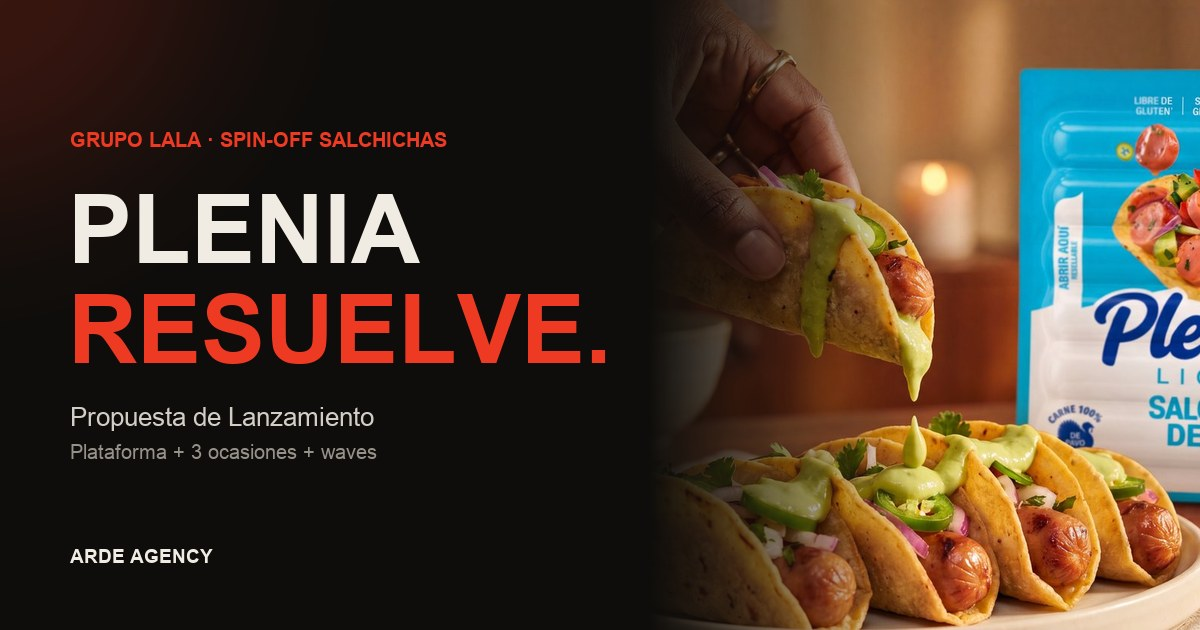
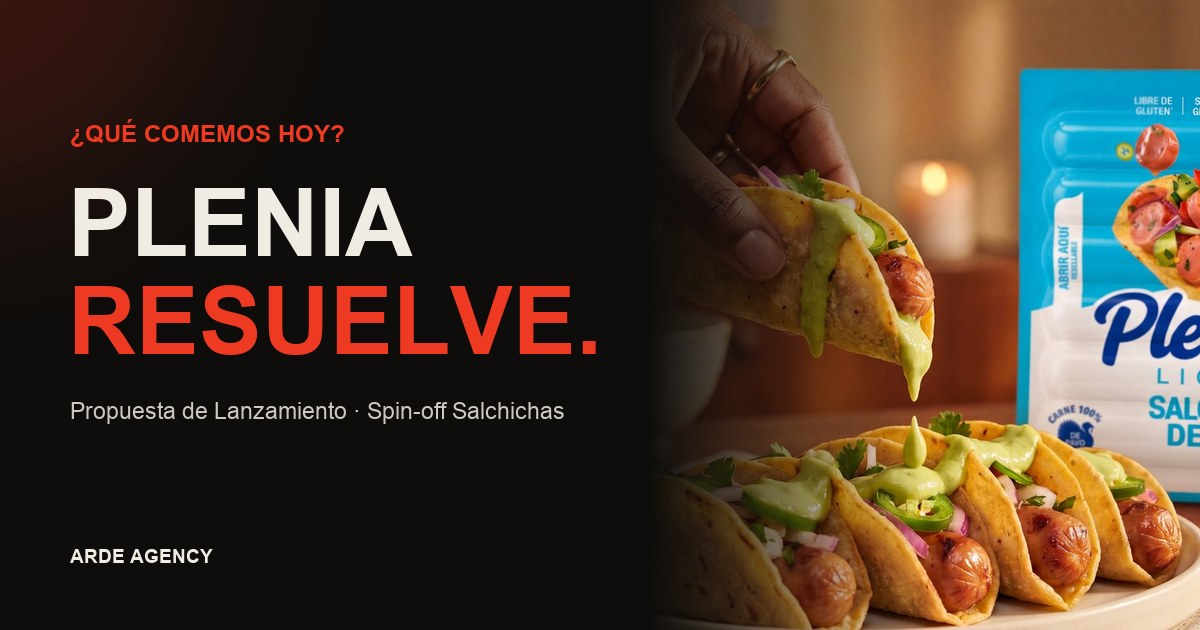
Brief LALA: bajada concepto, copys alineados, fix galeria, fondos negros

diff --git a/index.html b/index.html
@@ -11,13 +11,13 @@
 <meta property="og:url" content="https://ardeagency.github.io/plenia-resuelve-propuesta/">
 <meta property="og:site_name" content="ARDE Agency">
 <meta property="og:title" content="ARDE × Plenia Resuelve — Propuesta de Lanzamiento">
-<meta property="og:description" content="Plenia Resuelve. Plataforma creativa + 3 ocasiones de consumo + waves mensuales. Spin-off Salchichas · Grupo LALA México.">
+<meta property="og:description" content="¿Qué comemos hoy? Plenia Resuelve. Propuesta de lanzamiento del spin-off de salchichas para Grupo LALA México. Por ARDE Agency.">
 <meta property="og:image" content="https://ardeagency.github.io/plenia-resuelve-propuesta/assets/og.jpg">
 <meta property="og:image:width" content="1200">
 <meta property="og:image:height" content="630">
 <meta name="twitter:card" content="summary_large_image">
 <meta name="twitter:title" content="ARDE × Plenia Resuelve — Propuesta de Lanzamiento">
-<meta name="twitter:description" content="Plenia Resuelve. Plataforma creativa + 3 ocasiones de consumo + waves mensuales.">
+<meta name="twitter:description" content="¿Qué comemos hoy? Plenia Resuelve. Spin-off de salchichas para Grupo LALA. Por ARDE Agency.">
 <meta name="twitter:image" content="https://ardeagency.github.io/plenia-resuelve-propuesta/assets/og.jpg">
 <link rel="preconnect" href="https://fonts.googleapis.com">
 <link rel="preconnect" href="https://fonts.gstatic.com" crossorigin>
@@ -120,7 +120,7 @@ section{position:relative;z-index:2}
 @media(max-width:760px){.mani{grid-template-columns:1fr;gap:30px}}
 
 /* verbal system on dark */
-.verbal{background:var(--ink-soft)}
+.verbal{background:#000}
 .vgrid{display:grid;grid-template-columns:repeat(4,1fr);gap:24px;margin-top:24px}
 .vcard{border-top:2px solid var(--red);padding-top:22px}
 .vcard .hay{font-family:var(--sans);font-weight:900;font-size:30px;color:var(--red);text-transform:uppercase;line-height:1}
@@ -157,18 +157,18 @@ section{position:relative;z-index:2}
 @media(max-width:440px){.occ{grid-template-columns:1fr}}
 
 /* gallery */
-.gal{display:grid;grid-template-columns:repeat(12,1fr);gap:14px;margin-top:10px}
+.gal{display:grid;grid-template-columns:repeat(6,1fr);grid-auto-rows:230px;gap:14px;margin-top:10px}
 .gal figure{overflow:hidden;border-radius:4px;position:relative}
 .gal img{width:100%;height:100%;object-fit:cover;display:block;transition:transform 1.1s cubic-bezier(.2,.8,.2,1)}
 .gal figure:hover img{transform:scale(1.05)}
-.g1{grid-column:span 7;aspect-ratio:16/10}
-.g2{grid-column:span 5;aspect-ratio:16/10}
-.g3{grid-column:span 4;aspect-ratio:4/3}
-.g4{grid-column:span 4;aspect-ratio:4/3}
-.g5{grid-column:span 4;aspect-ratio:4/3}
-.g6{grid-column:span 12;aspect-ratio:24/9}
+.g1{grid-column:span 3;grid-row:span 2}
+.g2{grid-column:span 3;grid-row:span 1}
+.g3{grid-column:span 3;grid-row:span 1}
+.g4{grid-column:span 2;grid-row:span 1}
+.g5{grid-column:span 2;grid-row:span 1}
+.g6{grid-column:span 2;grid-row:span 1}
 .gcap{position:absolute;left:14px;bottom:12px;font-family:var(--sans);font-weight:700;font-size:11px;letter-spacing:.14em;text-transform:uppercase;color:#fff;text-shadow:0 1px 8px rgba(0,0,0,.6)}
-@media(max-width:760px){.g1,.g2,.g3,.g4,.g5,.g6{grid-column:span 12;aspect-ratio:16/9}}
+@media(max-width:760px){.gal{grid-template-columns:1fr;grid-auto-rows:200px}.g1,.g2,.g3,.g4,.g5,.g6{grid-column:span 1;grid-row:span 1}}
 
 /* full-bleed band */
 .band{min-height:60vh;background-size:cover;background-position:center;display:flex;align-items:center;justify-content:center;text-align:center;position:relative}
@@ -205,6 +205,28 @@ section{position:relative;z-index:2}
 .ben{font-size:14px;color:var(--cream);line-height:1.45;display:flex;gap:10px;align-items:flex-start}
 .ben span{color:var(--red);font-weight:700;font-size:16px;line-height:1.2}
 @media(max-width:640px){.ben-grid{grid-template-columns:1fr}}
+
+/* tension section */
+.ink-block{background:#000;color:var(--cream)}
+.tension-grid{display:grid;grid-template-columns:1.05fr 1fr;gap:54px;align-items:start;margin-top:10px}
+.t-lead{font-size:clamp(17px,2.1vw,21px);line-height:1.62;color:var(--muted-d);margin-bottom:22px}
+.t-lead b{color:#fff;font-weight:600}
+.t-quote{font-family:var(--sans);font-weight:600;font-style:italic;font-size:clamp(20px,2.6vw,28px);line-height:1.35;color:#fff;border-left:3px solid var(--red);padding-left:24px}
+.t-turn{font-family:var(--sans);font-weight:900;text-transform:uppercase;font-size:clamp(24px,3.4vw,38px);color:var(--red);margin-top:30px;letter-spacing:-.01em}
+@media(max-width:760px){.tension-grid{grid-template-columns:1fr;gap:26px}}
+
+/* verbal question cards */
+.vq{font-family:var(--sans);font-weight:600;font-size:19px;color:var(--cream);line-height:1.32;min-height:78px}
+
+/* claims por ocasión */
+.claimgrid{display:grid;grid-template-columns:repeat(4,1fr);gap:16px;margin-top:34px}
+.claimcard{border:1px solid var(--line);border-radius:12px;padding:26px 22px;background:#fff;transition:transform .3s,box-shadow .3s}
+.claimcard:hover{transform:translateY(-4px);box-shadow:0 14px 30px rgba(14,13,11,.1)}
+.claimcard .cs{font-family:var(--sans);font-weight:900;font-size:21px;text-transform:uppercase;color:var(--red);letter-spacing:-.01em}
+.claimcard .cc{font-family:var(--sans);font-weight:700;font-size:16px;color:var(--ink);margin-top:14px;line-height:1.32}
+.claimcard .co{font-size:11px;color:var(--muted);margin-top:14px;letter-spacing:.12em;text-transform:uppercase}
+@media(max-width:760px){.claimgrid{grid-template-columns:1fr 1fr}}
+@media(max-width:430px){.claimgrid{grid-template-columns:1fr}}
 
 /* continuity future phase */
 .cont{margin-top:26px;border:1px dashed var(--line-d);border-radius:8px;padding:28px 30px;display:grid;grid-template-columns:1fr 170px;gap:20px;align-items:center}
@@ -253,7 +275,7 @@ section{position:relative;z-index:2}
   <div class="wrap">
     <div class="hero-meta-top">Grupo LALA México · Spin-off Salchichas · Propuesta confidencial</div>
     <h1 id="heroTitle"></h1>
-    <p class="hero-sub">Una plataforma creativa lista para producir. <b>Plenia Resuelve</b> entra al mercado con un sistema verbal propio, un Key Visual maestro y las ocasiones que viven en cada casa mexicana.</p>
+    <p class="hero-sub">La marca que entra cuando el día se complica y lo resuelve — con sabor, nutrición y <b>cero drama</b>. Esta es la propuesta de ARDE para llevar el territorio <b>Plenia Resuelve</b> a las salchichas.</p>
     <div class="hero-row">
       <div class="it"><div class="k">Cliente</div><div class="v">Grupo LALA · México</div></div>
       <div class="it"><div class="k">Marca</div><div class="v">Plenia — Salchichas</div></div>
@@ -266,21 +288,41 @@ section{position:relative;z-index:2}
 
 <div class="marquee"><div class="track" id="mq"></div></div>
 
+<!-- TENSION -->
+<section class="ink-block block">
+  <div class="wrap">
+    <div class="section-head rev">
+      <div class="eyebrow">01 · La tensión</div>
+      <h2 style="color:#fff">¿Qué comemos <span class="red">hoy?</span></h2>
+    </div>
+    <div class="tension-grid">
+      <div class="rev">
+        <p class="t-lead">Es la pregunta que se repite en <b>cada casa mexicana</b>, todos los días. A veces hay receta. A veces solo lo que quedó en el refri. Y casi siempre, alguien que tiene que resolverla.</p>
+        <p class="t-lead">Pero comer bien se volvió un lío: que si la sal, que si la grasa, que si los niños ya no comen gluten. <b>Demasiado drama para algo tan esencial.</b></p>
+      </div>
+      <div class="rev d1">
+        <blockquote class="t-quote">"Me frustra que algo tan esencial como la comida se haya vuelto tan complicado y abrumador de resolver."</blockquote>
+        <div class="t-turn">Ahí entra Plenia.</div>
+      </div>
+    </div>
+  </div>
+</section>
+
 <!-- CONCEPT -->
 <section class="cream block">
   <div class="wrap">
     <div class="section-head rev">
-      <div class="eyebrow">01 · El concepto</div>
+      <div class="eyebrow">02 · El concepto</div>
       <h2>Plenia <span class="red">resuelve.</span></h2>
-      <p class="lede">En México no siempre sabemos qué vamos a comer. Pero algo se nos ocurre: abrimos el refri, vemos qué quedó y resolvemos. <b>Plenia es ese "con qué".</b> La salchicha rica, práctica, con carne 100% que convierte cualquier momento en comida. Un solo concepto firma toda la comunicación: <b>Plenia Resuelve</b>.</p>
+      <p class="lede">En cada casa mexicana se repite a diario la misma pregunta: <b>¿qué comemos hoy?</b> Plenia es la respuesta rica, práctica y nutritiva que la resuelve sin convertir la comida en un drama. Un solo concepto firma toda la comunicación: <b>Plenia Resuelve</b>.</p>
     </div>
     <div class="mani rev">
       <div>
-        <p>Aquí una comida no necesita empezar con una receta. A veces empieza con hambre, con prisa, con visita, con un <b>"¿y si hacemos unas salchichas?"</b>. Y ahí cambia todo.</p>
-        <p>Cuando hay Plenia, hay desayuno, lunch, comida, cena y botana. Una salchicha rica, práctica, con carne 100% y mejores razones para elegirla.</p>
+        <p>Comer bien no debería ser misión imposible. Pero entre la prisa, los antojos y el <b>"¿y ahora qué hago de comer?"</b>, se volvió un drama diario.</p>
+        <p>Plenia entra justo ahí: rica, práctica, con carne 100% y mejores razones para elegirla. Resuelve el desayuno, el lunch, la comida, la cena y la botana — <b>sin complicarte</b>.</p>
       </div>
       <div>
-        <div class="big">No había plan.<br>Pero había Plenia.<br>Y ya se armó.</div>
+        <div class="big">El día ya está<br>bastante complicado.<br>La comida no.</div>
         <div class="promise">
           <div class="v">Plenia Resuelve.</div>
         </div>
@@ -293,25 +335,42 @@ section{position:relative;z-index:2}
 <section class="verbal block">
   <div class="wrap">
     <div class="section-head rev">
-      <div class="eyebrow">02 · Sistema verbal</div>
-      <h2>Una estructura. <span class="red">Infinitas piezas.</span></h2>
-      <p class="lede" style="color:var(--muted-d)">Una mecánica sencilla, repetitiva y reconocible. <b style="color:#fff">Plenia Resuelve</b> cierra siempre. Una sola estructura que escala a toda la campaña.</p>
+      <div class="eyebrow">03 · Sistema verbal</div>
+      <h2>Una pregunta. <span class="red">Una respuesta.</span></h2>
+      <p class="lede" style="color:var(--muted-d)">Aparece el caos del día y <b style="color:#fff">Plenia lo resuelve — sin drama</b>. Una mecánica simple, reconocible y bien mexicana. Una estructura, infinitas piezas.</p>
     </div>
     <div class="vgrid">
-      <div class="vcard rev d1"><div class="hay">Hay</div><div class="l1">Hay hambre.</div><div class="l2">Hay Plenia.</div><div class="ya">Plenia resuelve.</div></div>
-      <div class="vcard rev d2"><div class="hay">Hay</div><div class="l1">Hay partido.</div><div class="l2">Hay Plenia.</div><div class="ya">Plenia resuelve.</div></div>
-      <div class="vcard rev d3"><div class="hay">Hay</div><div class="l1">Hay amigos.</div><div class="l2">Hay Plenia.</div><div class="ya">Plenia resuelve.</div></div>
-      <div class="vcard rev d4"><div class="hay">Hay</div><div class="l1">Hay 10 min y 4 con hambre.</div><div class="l2">Hay Plenia.</div><div class="ya">Plenia resuelve.</div></div>
+      <div class="vcard rev d1"><div class="vq">¿Qué comemos hoy?</div><div class="ya">Plenia resuelve.</div></div>
+      <div class="vcard rev d2"><div class="vq">¿Llegó visita que no se va?</div><div class="ya">Plenia resuelve.</div></div>
+      <div class="vcard rev d3"><div class="vq">¿Diez minutos y cuatro con hambre?</div><div class="ya">Plenia resuelve.</div></div>
+      <div class="vcard rev d4"><div class="vq">¿Otra vez sin ganas de cocinar?</div><div class="ya">Plenia resuelve.</div></div>
     </div>
-    <p class="vnote rev">El humor viene de reconocer verdades, no de contar chistes. Directa · descomplicada · con colmillo · remates cortos. <b style="color:var(--red)">El producto siempre antes que el chiste.</b></p>
+    <p class="vnote rev">Witty, no payaso: observa, conecta y remata con una verdad simple. <b style="color:var(--red)">Menos drama, más sabor — el producto siempre al frente.</b></p>
+  </div>
+</section>
+
+<!-- CLAIMS POR OCASIÓN -->
+<section class="cream block">
+  <div class="wrap">
+    <div class="section-head rev">
+      <div class="eyebrow">04 · Jerarquía de claims</div>
+      <h2>Un claim <span class="red">por ocasión.</span></h2>
+      <p class="lede">El brief es claro: <b>no juntar todos los claims</b>. Cada SKU lidera con el atributo que más pesa según la ocasión — sin saturar, sin sonar técnico ni médico.</p>
+    </div>
+    <div class="claimgrid">
+      <div class="claimcard rev d1"><div class="cs">Pavo</div><div class="cc">Carne 100% de pavo</div><div class="co">Desayuno · Botana</div></div>
+      <div class="claimcard rev d2"><div class="cs">Viena</div><div class="cc">El sabor clásico que todos piden</div><div class="co">Comida · Botana</div></div>
+      <div class="claimcard rev d3"><div class="cs">Ligero</div><div class="cc">Menos sodio, menos grasa</div><div class="co">Cena · Lunch ligero</div></div>
+      <div class="claimcard rev d4"><div class="cs">Pro</div><div class="cc">Más proteína · 47–70 g</div><div class="co">Lunch · Snack</div></div>
+    </div>
   </div>
 </section>
 
 <!-- GALLERY -->
-<section class="cream block" style="padding-top:90px">
+<section class="cream block" style="padding-top:30px">
   <div class="wrap">
     <div class="section-head rev">
-      <div class="eyebrow">03 · Dirección de arte</div>
+      <div class="eyebrow">05 · Dirección de arte</div>
       <h2>Comida real. <span class="red">Mesa mexicana.</span></h2>
       <p class="lede">Fotografía cálida, cotidiana y con food appeal. El producto siempre presente, las ocasiones siempre reconocibles. Esta es la línea visual desarrollada para la marca.</p>
     </div>
@@ -330,7 +389,7 @@ section{position:relative;z-index:2}
 <section class="cream block" style="padding-top:30px">
   <div class="wrap">
     <div class="section-head rev">
-      <div class="eyebrow">04 · Alcance del lanzamiento</div>
+      <div class="eyebrow">06 · Alcance del lanzamiento</div>
       <h2>Lo que <span class="red">entregamos.</span></h2>
       <p class="lede">La campaña completa, restructurada: la plataforma creativa, 3 ocasiones de consumo listas para salir y waves mensuales de continuidad. Todo lo necesario para que Plenia Resuelve exista y se mantenga vivo en el mercado.</p>
     </div>
@@ -403,9 +462,9 @@ section{position:relative;z-index:2}
     </div>
 
     <div class="occ rev">
-      <div class="ocell"><div class="on">Desayuno</div><div class="ot">Hay huevito. Hay Plenia.</div><div class="oy">Plenia resuelve.</div></div>
-      <div class="ocell"><div class="on">Lunch</div><div class="ot">Había diez minutos. Había Plenia Pro.</div><div class="oy">Plenia resuelve.</div></div>
-      <div class="ocell"><div class="on">Cena</div><div class="ot">Llegó la cena. Las ganas de cocinar no. Había Plenia.</div><div class="oy">Plenia resuelve.</div></div>
+      <div class="ocell"><div class="on">Desayuno</div><div class="ot">Arranca el día sin complicarte.</div><div class="oy">Plenia resuelve.</div></div>
+      <div class="ocell"><div class="on">Lunch</div><div class="ot">Tu lunch, pero más Pro.</div><div class="oy">Plenia Pro resuelve.</div></div>
+      <div class="ocell"><div class="on">Cena</div><div class="ot">¿Otra vez la cena? Menos drama, más sabor.</div><div class="oy">Plenia resuelve.</div></div>
     </div>
     <p class="rev" style="margin-top:22px;font-size:13px;color:var(--muted)">Ocasiones sugeridas para el lanzamiento — el cliente puede elegir las 3 que prefiera. El sistema se extiende a Comida, Snack y Botana en las waves de continuidad.</p>
   </div>
@@ -414,9 +473,9 @@ section{position:relative;z-index:2}
 <!-- BAND -->
 <section class="band" style="background-image:url('assets/p_band.jpg')">
   <div class="band-txt rev">
-    <div class="eyebrow">El sistema, en una frase</div>
-    <h3>Un solo concepto.<br><span class="red">Toda la mesa.</span></h3>
-    <p>3 ocasiones · 4 SKUs · piezas que viven en cada casa mexicana — firmadas por Plenia Resuelve.</p>
+    <div class="eyebrow">Menos drama, más sabor</div>
+    <h3>El día se complica.<br><span class="red">Plenia lo resuelve.</span></h3>
+    <p>3 ocasiones · 4 SKUs · piezas que viven en cada casa mexicana — sin drama.</p>
   </div>
 </section>
 
@@ -424,7 +483,7 @@ section{position:relative;z-index:2}
 <section class="invest block">
   <div class="wrap">
     <div class="section-head rev">
-      <div class="eyebrow">05 · Inversión</div>
+      <div class="eyebrow">07 · Inversión</div>
       <h2 style="color:#fff">Paquete de <span class="red">lanzamiento.</span></h2>
       <p class="lede" style="color:var(--muted-d)">La campaña completa en tres fases, restructurada de $44,260 a una inversión de entrada. Concepto, ocasiones y continuidad — todo dentro de presupuesto.</p>
     </div>
@@ -475,7 +534,7 @@ section{position:relative;z-index:2}
 <!-- GO -->
 <section class="go">
   <h2>Plenia<br><span class="ink">Resuelve.</span></h2>
-  <p>Demos el primer paso esta semana. Aprobamos el lanzamiento, arrancamos producción y ajustamos juntos concepto, imágenes y videos sobre la marcha.</p>
+  <p>Demos el primer paso esta semana. Aprobamos el spin-off de salchichas, arrancamos producción y ajustamos juntos concepto, imágenes y videos sobre la marcha — sin drama.</p>
   <div class="cta">
     <a class="btn" href="https://wa.me/525578652090?text=Hola%2C%20vimos%20la%20propuesta%20de%20Plenia%20Resuelve%20y%20queremos%20dar%20el%20GO%20para%20arrancar." target="_blank" rel="noopener">Dar el GO →</a>
     <a class="btn alt" href="https://wa.me/525578652090?text=Hola%2C%20queremos%20conversar%20la%20propuesta%20de%20Plenia%20Resuelve." target="_blank" rel="noopener">Conversar la propuesta</a>
@@ -513,7 +572,7 @@ section{position:relative;z-index:2}
 // marquee
 (function(){
   const mq=document.getElementById('mq');
-  const items=['Plenia Resuelve','Salchicha de pavo','Plenia Resuelve','Carne 100%','Plenia Resuelve','Pavo · Viena · Ligero · Pro'];
+  const items=['¿Qué comemos hoy?','Plenia Resuelve','Menos drama, más sabor','Carne 100%','Plenia Resuelve','Cero drama'];
   let html='';
   for(let k=0;k<2;k++){items.forEach((it,idx)=>{html+=`<span class="${idx%2?'o':''}">${it}</span><span class="o">/</span>`;});}
   mq.innerHTML=html;